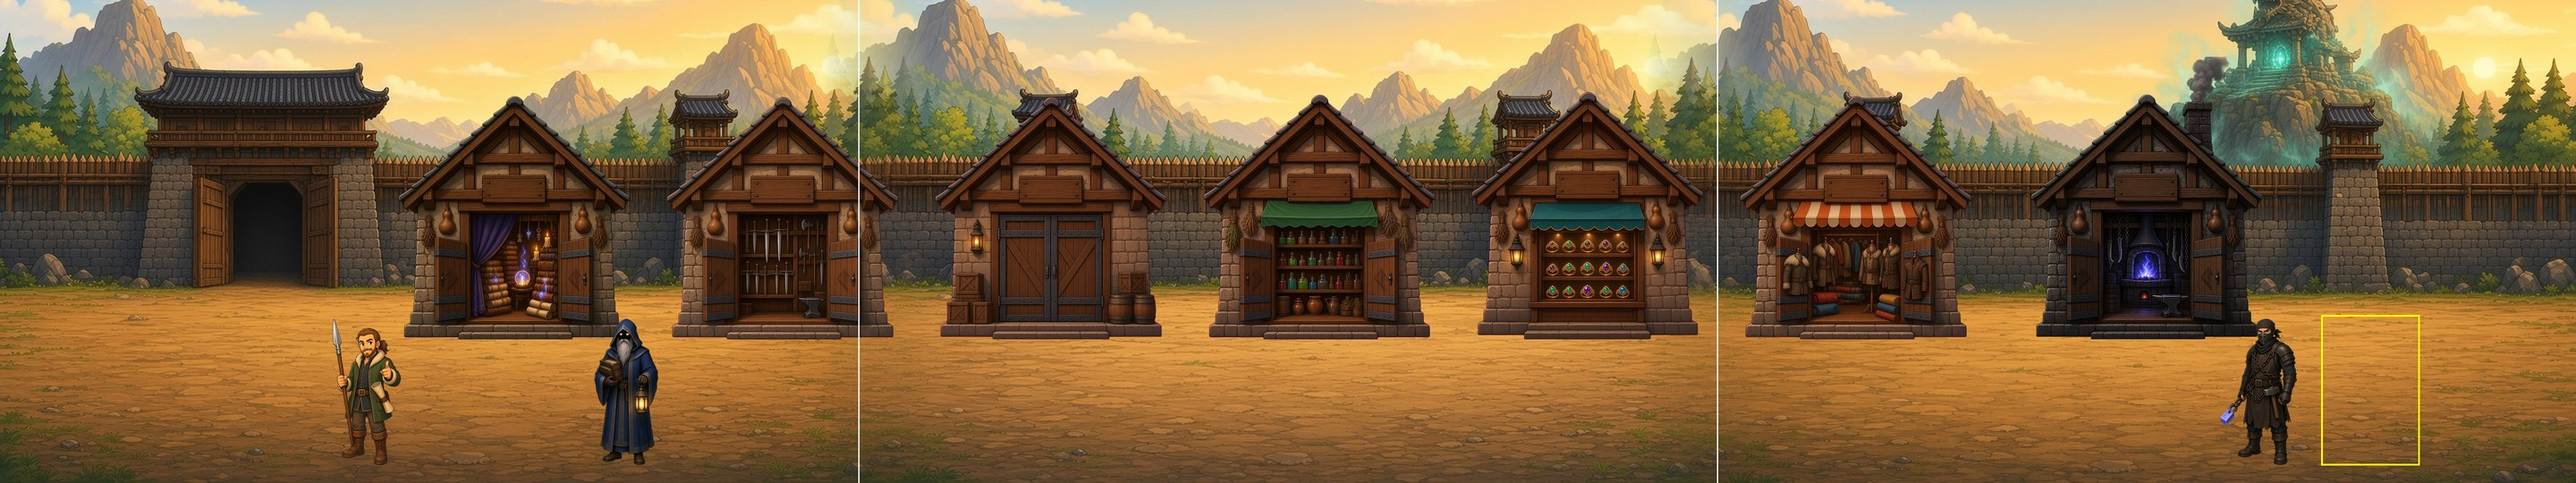
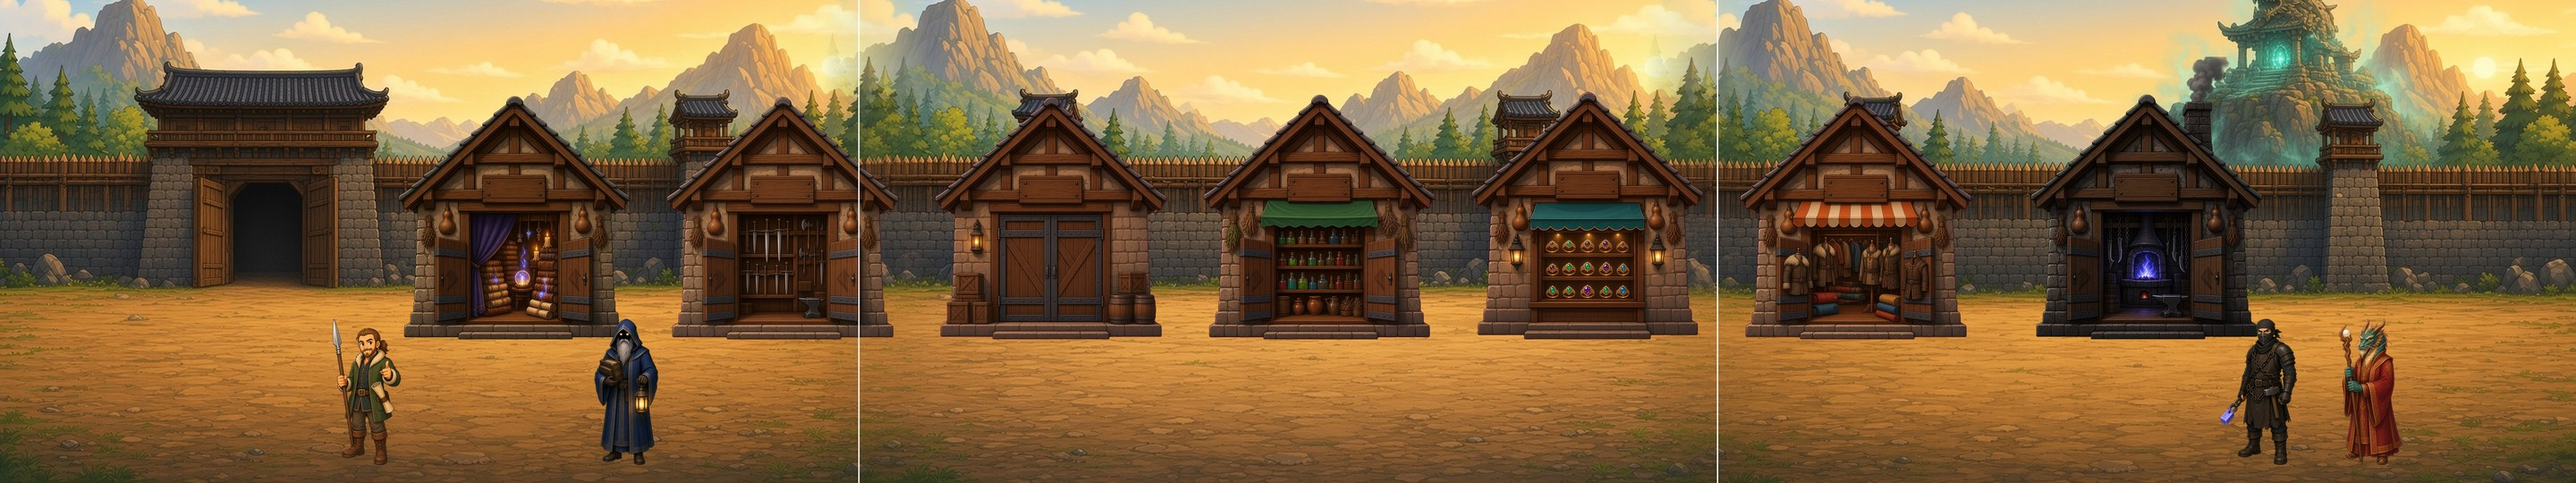
美术：白日门龙人立绘 npc_brm_dragon，更新 L-P2 文档与预览

Changed region(s): [[0.9062, 0.6519, 0.9375, 0.9778]]

diff --git a/docs/art-requests.md b/docs/art-requests.md
@@ -1175,12 +1175,13 @@ public/assets/ui/UI-Tooltip-Border.png
 | public/assets/town/npc_brm_guide.png | 768×960 透明 | 向导（外观推测）|
 | public/assets/town/npc_brm_mystic_book.png | 768×960 透明 | 神秘书商（外观推测）|
 | public/assets/town/npc_brm_mystic_smith.png | 768×960 透明 | 神秘铁匠（外观推测）|
+| public/assets/town/npc_brm_dragon.png | 768×960 透明 | 龙人 brm_dragon（外观推测）|
 | docs/town-preview/bairimen_preview.jpg | 2880×540 | 摆位预览（半尺寸；白线是屏分隔，黄框是龙人占位）|
 
 说明：
 - 门面同 L-P1，采用 3:4（540×720），底边贴画布底，水平居中，门头上方有空白木招牌，店名由游戏绘制。
 - 文件名 shop_brm_* / npc_brm_* 是本分支自定的，第 L 章没有给出具体文件名。
-- 龙人沿用现有的 brm_dragon，本次没有重画。本分支（基于 main）里没有找到 brm_dragon 文件，预览中用黄框占位。
+- 龙人：brm_dragon 原来只是 src/data/towns.ts 里的 NPC id，没有对应的图。现已出图：public/assets/town/npc_brm_dragon.png（768×960 透明，与 npc_brm_* 同风格；龙首人身、红金长袍、持珠杖，外观推测）。预览里的黄框就是它的位置（x=5300）。
 
 ### 摆位表（背景坐标，x 为中心点）
 
@@ -1197,7 +1198,7 @@ public/assets/ui/UI-Tooltip-Border.png
 | 2 | | shop_brm_jewelry | 3550 |
 | 3 | 3840–5760 | shop_brm_clothes | 4150 |
 | 3 | | shop_brm_mystic_smith + npc_brm_mystic_smith | 4800 / 5050 |
-| 3 | | 龙人 brm_dragon（已有素材）| 5300 |
+| 3 | | npc_brm_dragon（龙人）| 5300 |
 | 3 | | 远景龙形古祠（背景自带）| 约 5400 |
 
 顺序依据 towns-plan：城门·向导 → 神秘书商·武器 → 仓库·药店 → 首饰·服装 → 神秘铁匠·龙人。原计划是两两一组，这里按 3 屏重新分配，每屏最多 3 间店。
